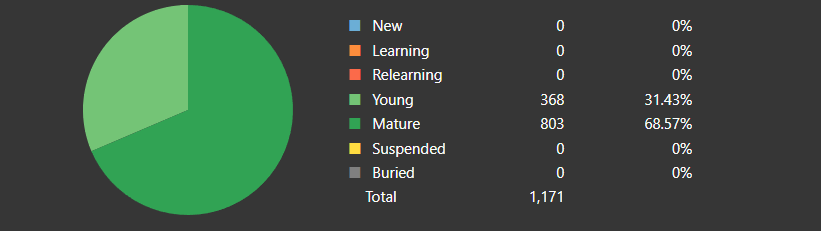
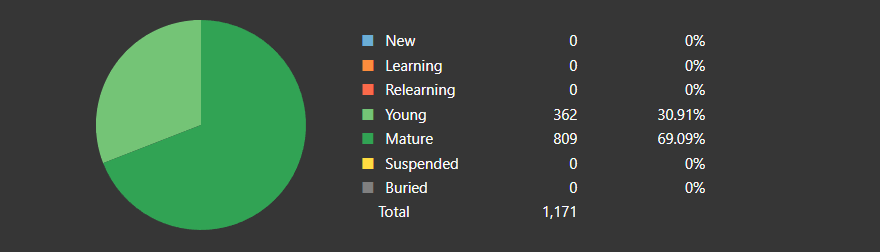
Deployed 4aa80e6 with MkDocs version: 1.5.3

diff --git a/stats/stats/index.html b/stats/stats/index.html
@@ -452,15 +452,15 @@
       <ul class="md-nav__list">
         
           <li class="md-nav__item">
-  <a href="#tango-n5-as-of-122223" class="md-nav__link">
-    Tango N5 as of 12/22/23
+  <a href="#tango-n5-as-of-122323" class="md-nav__link">
+    Tango N5 as of 12/23/23
   </a>
   
 </li>
         
           <li class="md-nav__item">
-  <a href="#tango-n4-as-of-122223" class="md-nav__link">
-    Tango N4 as of 12/22/23
+  <a href="#tango-n4-as-of-122323" class="md-nav__link">
+    Tango N4 as of 12/23/23
   </a>
   
 </li>
@@ -1929,15 +1929,15 @@
       <ul class="md-nav__list">
         
           <li class="md-nav__item">
-  <a href="#tango-n5-as-of-122223" class="md-nav__link">
-    Tango N5 as of 12/22/23
+  <a href="#tango-n5-as-of-122323" class="md-nav__link">
+    Tango N5 as of 12/23/23
   </a>
   
 </li>
         
           <li class="md-nav__item">
-  <a href="#tango-n4-as-of-122223" class="md-nav__link">
-    Tango N4 as of 12/22/23
+  <a href="#tango-n4-as-of-122323" class="md-nav__link">
+    Tango N4 as of 12/23/23
   </a>
   
 </li>
@@ -1964,14 +1964,14 @@
 
 <h1 id="anki-stats">Anki Stats<a class="headerlink" href="#anki-stats" title="Permanent link">&para;</a></h1>
 <h2 id="anki-deck-card-counts">Anki Deck Card Counts<a class="headerlink" href="#anki-deck-card-counts" title="Permanent link">&para;</a></h2>
-<h3 id="tango-n5-as-of-122223">Tango N5 as of 12/22/23<a class="headerlink" href="#tango-n5-as-of-122223" title="Permanent link">&para;</a></h3>
+<h3 id="tango-n5-as-of-122323">Tango N5 as of 12/23/23<a class="headerlink" href="#tango-n5-as-of-122323" title="Permanent link">&para;</a></h3>
 <ul>
-<li><strong>Young Cards</strong>: 368</li>
-<li><strong>Mature Cards</strong>: 803</li>
+<li><strong>Young Cards</strong>: 362</li>
+<li><strong>Mature Cards</strong>: 809</li>
 <li><strong>Total Cards Known</strong>: 1171</li>
 </ul>
 <p><img align="center" alt="Card Counts" src="../../assets/anki-stats/n5-card-counts.png" /></p>
-<h3 id="tango-n4-as-of-122223">Tango N4 as of 12/22/23<a class="headerlink" href="#tango-n4-as-of-122223" title="Permanent link">&para;</a></h3>
+<h3 id="tango-n4-as-of-122323">Tango N4 as of 12/23/23<a class="headerlink" href="#tango-n4-as-of-122323" title="Permanent link">&para;</a></h3>
 <ul>
 <li><strong>New Cards</strong>: 917</li>
 <li><strong>Young Cards</strong>: 0</li>
